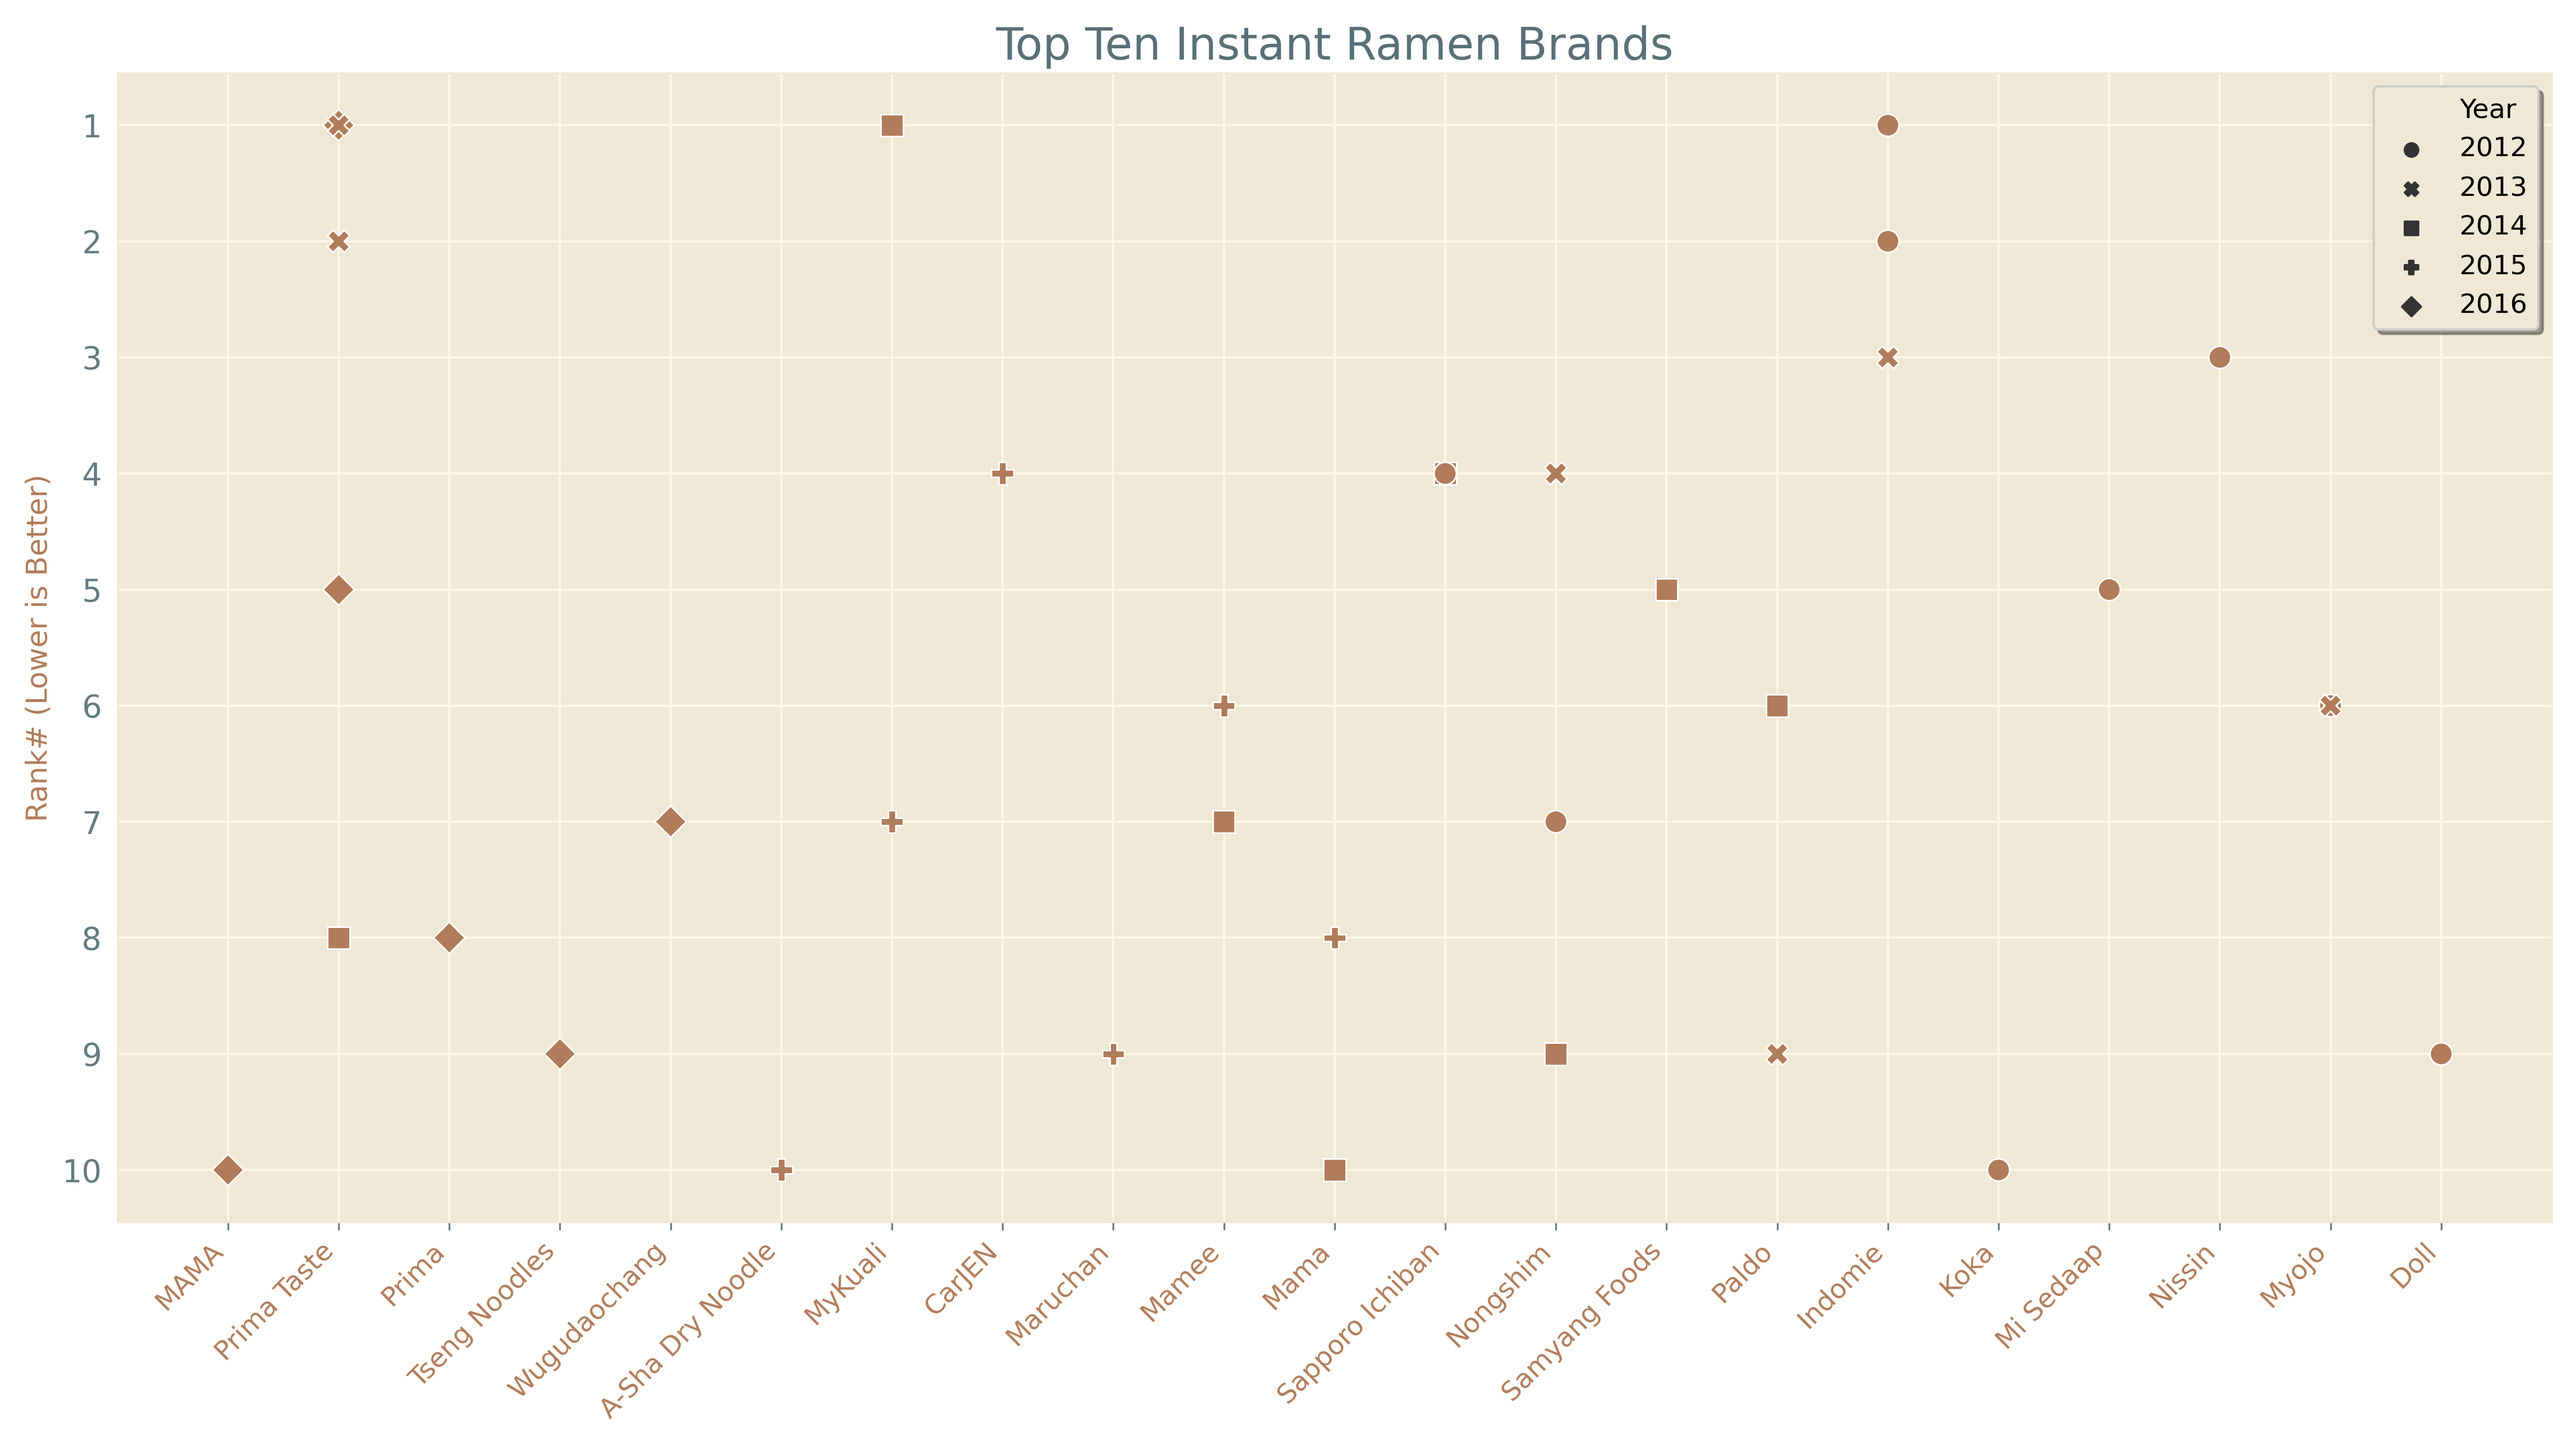
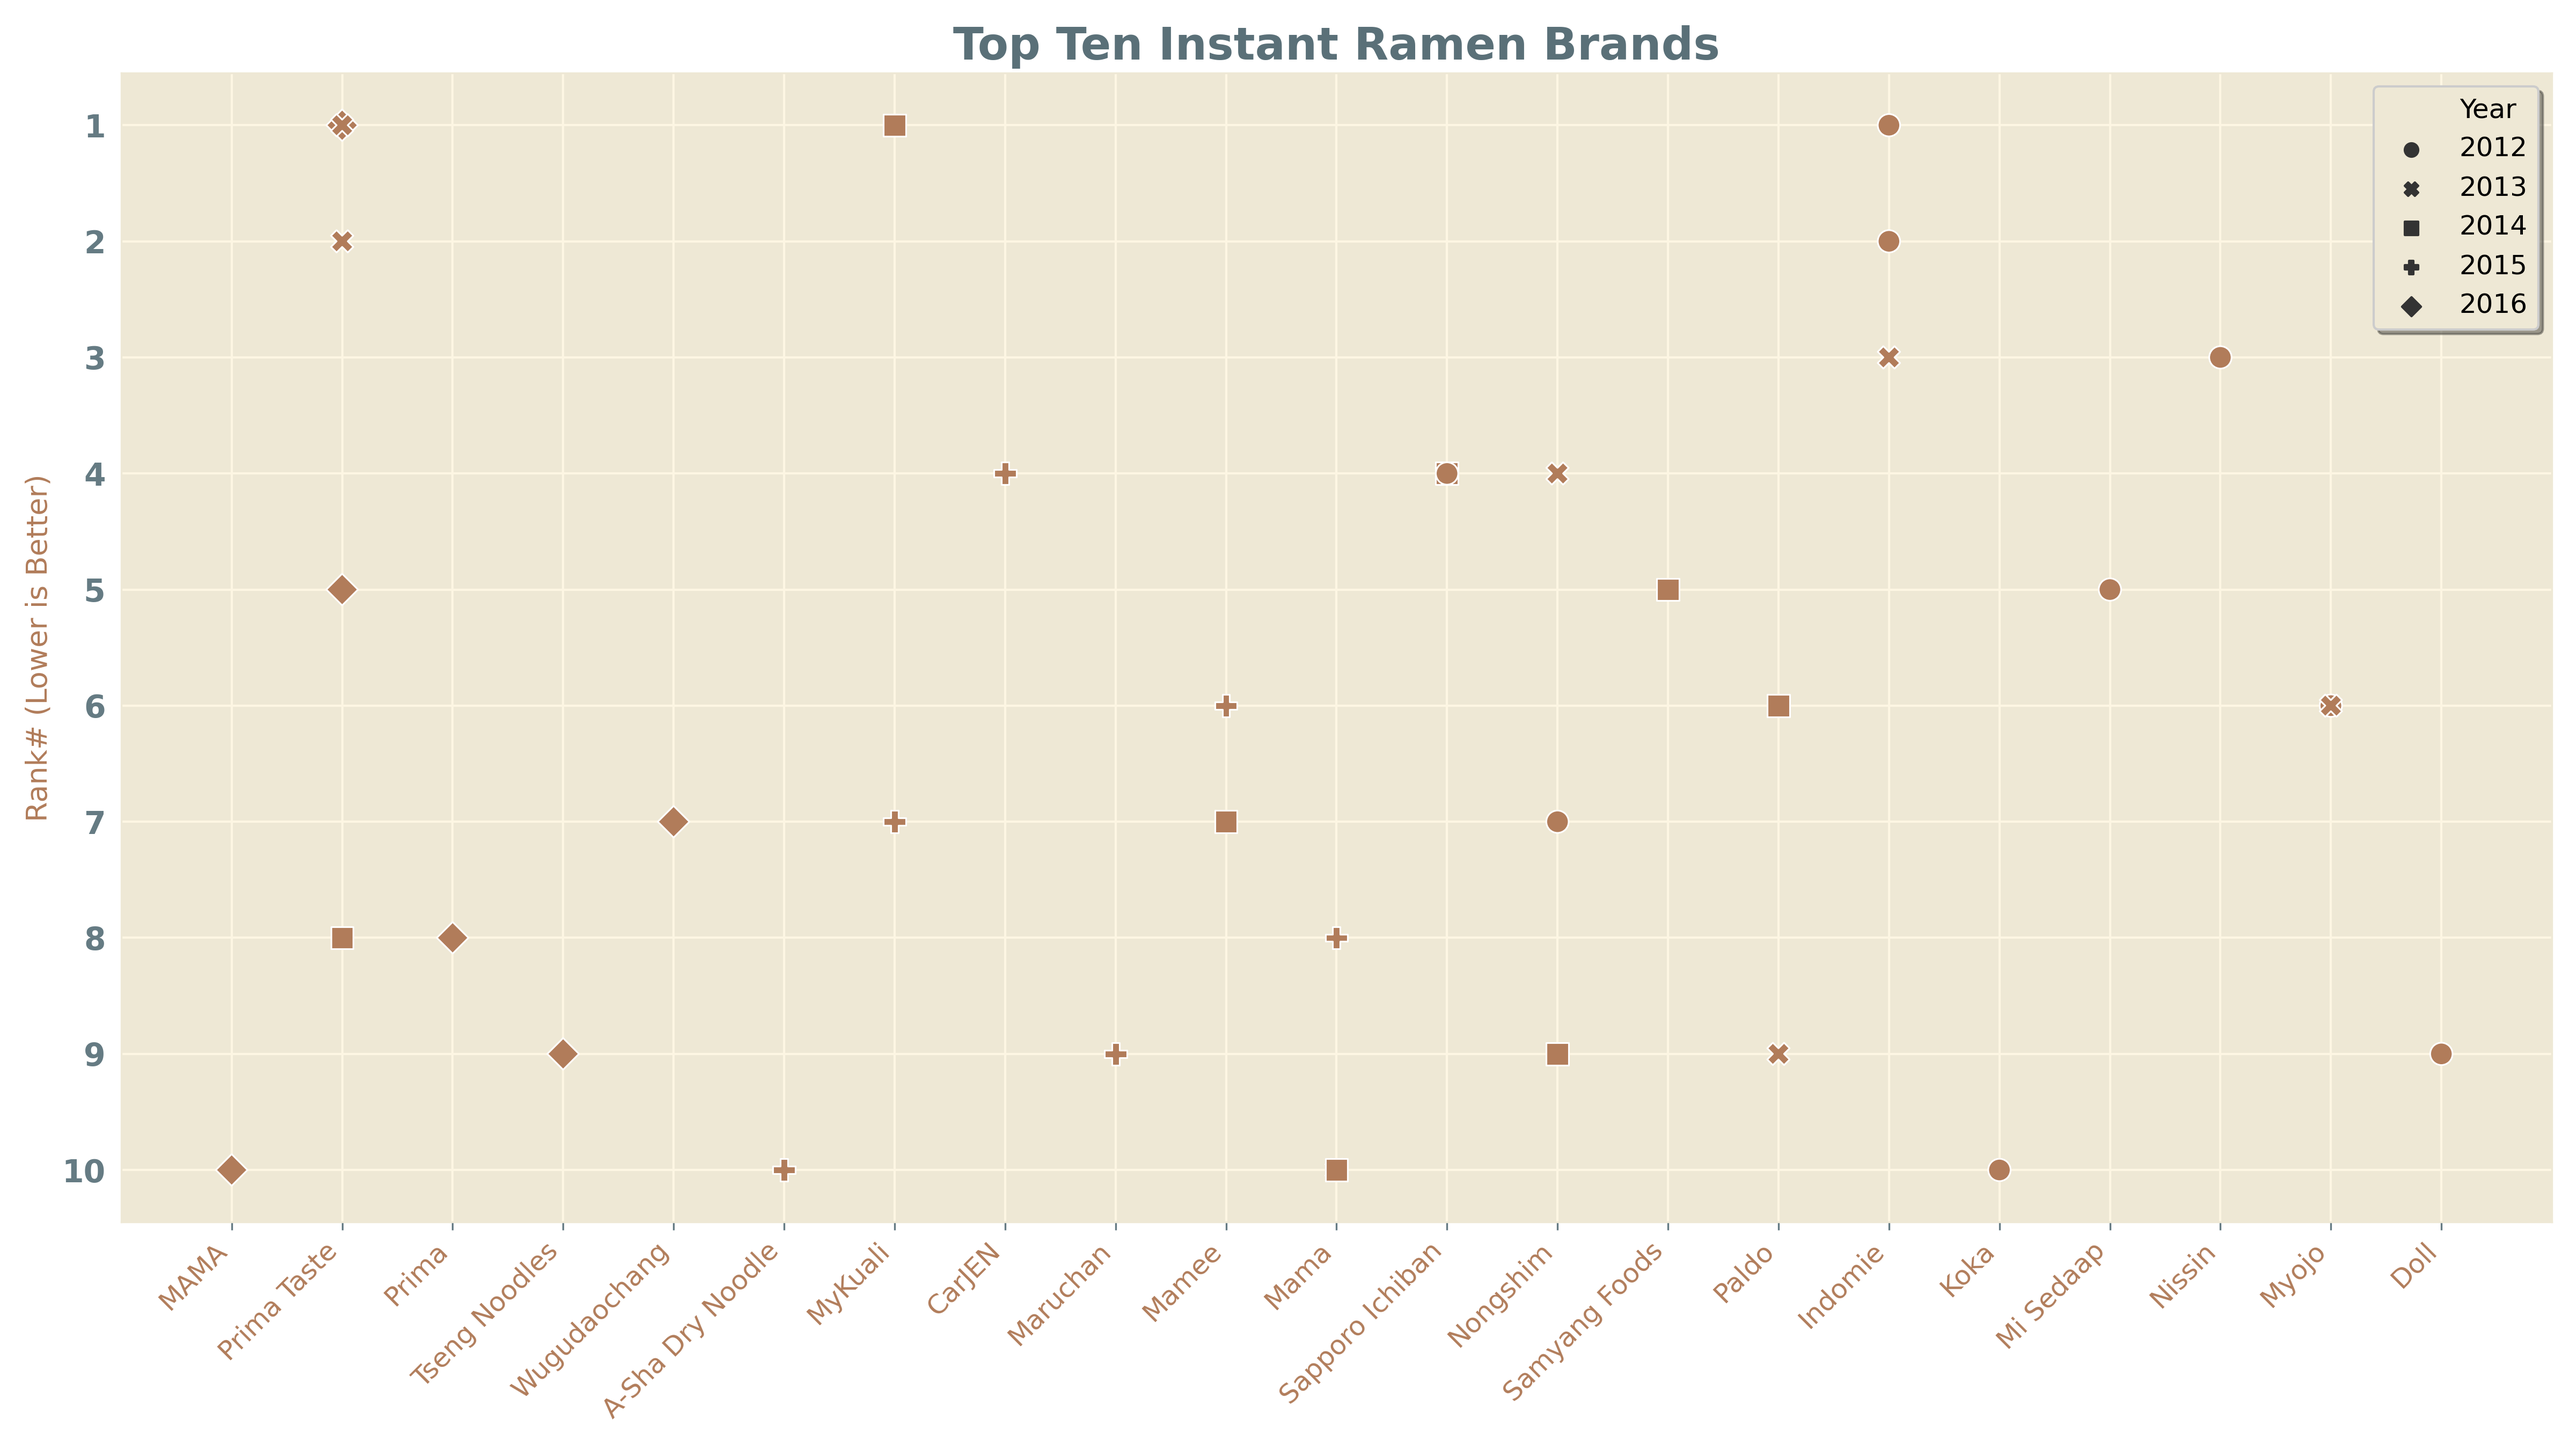
Add files via upload

diff --git a/Ramen_Ratings/Top_Ten_Instant_Ramen_Brands.py b/Ramen_Ratings/Top_Ten_Instant_Ramen_Brands.py
@@ -14,11 +14,11 @@ df = df[df['Rank'] != 99]
 plt.style.use('Solarize_Light2')
 plt.figure(figsize=(16, 9))
 sns.scatterplot(df['Brand'], df['Rank'], style=df['Year'], s=100, color='#b17c5a')
-plt.title('Top Ten Instant Ramen Brands', color='#5a7078', fontsize=20)
+plt.title('Top Ten Instant Ramen Brands', color='#5a7078', fontweight='bold', fontsize=20)
 plt.tick_params(left=False)
 plt.xticks(rotation=45, color='#b17c5a', ha='right', fontsize=12)
 plt.xlabel(None)
-plt.yticks(np.arange(1, 11, 1), fontsize=14)
+plt.yticks(np.arange(1, 11, 1), fontweight='bold', fontsize=14)
 plt.ylabel('Rank# (Lower is Better)', color='#b17c5a', fontsize=13)
 plt.gca().invert_yaxis()
 plt.legend(loc='best', shadow=True, fontsize=12)
